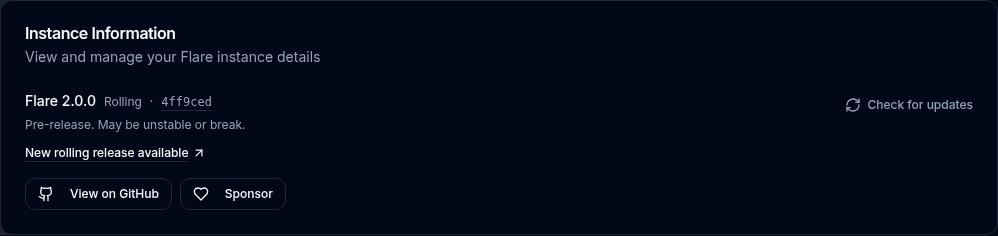
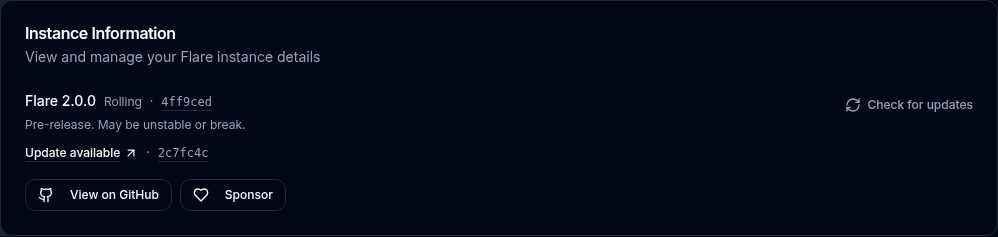
Link the incoming rolling commit in the update notice

diff --git a/__tests__/updates/instance-version.test.ts b/__tests__/updates/instance-version.test.ts
@@ -1,0 +1,117 @@
+import { createElement } from 'react'
+
+import type { BuildInfo, UpdateInfo } from '@/types/dto/updates'
+import { renderToStaticMarkup } from 'react-dom/server'
+import { describe, expect, it, vi } from 'vitest'
+
+import { InstanceVersion } from '@/components/settings/instance-version'
+
+const state = vi.hoisted(() => ({ values: [] as unknown[] }))
+
+// Render the completed update response with React's real server renderer.
+// Only hook state is supplied here; link markup comes from the component.
+vi.mock('react', async (importOriginal) => ({
+  ...(await importOriginal<typeof import('react')>()),
+  useState: () => [state.values.shift(), vi.fn()],
+  useCallback: (callback: unknown) => callback,
+  useEffect: vi.fn(),
+}))
+
+const installedSha = '1111111aaaaaaaaaaaaaaaaaaaaaaaaaaaaaaaaa'
+const latestSha = '2222222bbbbbbbbbbbbbbbbbbbbbbbbbbbbbbbbb'
+const repositoryUrl = 'https://github.com/FlintSH/Flare'
+const installedCommitUrl = `${repositoryUrl}/commit/${installedSha}`
+const latestCommitUrl = `${repositoryUrl}/commit/${latestSha}`
+const rollingReleaseUrl = `${repositoryUrl}/releases/tag/rolling`
+
+const rollingBuild: BuildInfo = {
+  version: '2.0.0',
+  channel: 'rolling',
+  commitSha: installedSha,
+  commitUrl: installedCommitUrl,
+}
+
+const rollingUpdate: UpdateInfo = {
+  currentVersion: '2.0.0',
+  channel: 'rolling',
+  hasUpdate: true,
+  latestVersion: 'rolling',
+  releaseUrl: rollingReleaseUrl,
+  latestCommitSha: latestSha,
+  latestCommitUrl,
+  message: 'A new rolling release is available.',
+}
+
+function render(buildInfo: BuildInfo, updateInfo: UpdateInfo) {
+  state.values = [false, updateInfo, null]
+  const html = renderToStaticMarkup(
+    createElement(InstanceVersion, { buildInfo })
+  )
+  const links = [...html.matchAll(/<a\b([^>]*)>([\s\S]*?)<\/a>/g)].map(
+    ([, attributes, content]) => ({
+      href: attributes.match(/\bhref="([^"]*)"/)?.[1],
+      text: content.replace(/<[^>]*>/g, ''),
+    })
+  )
+  return { html, links }
+}
+
+describe('instance version update links', () => {
+  it('links both the installed and incoming rolling commits separately from the release', () => {
+    const { links } = render(rollingBuild, rollingUpdate)
+
+    expect(links).toEqual([
+      { href: installedCommitUrl, text: installedSha.slice(0, 7) },
+      { href: rollingReleaseUrl, text: 'Update available' },
+      { href: latestCommitUrl, text: latestSha.slice(0, 7) },
+    ])
+  })
+
+  it('shows only the installed commit when the rolling release is current', () => {
+    const { html, links } = render(rollingBuild, {
+      ...rollingUpdate,
+      hasUpdate: false,
+      latestCommitSha: installedSha,
+      latestCommitUrl: installedCommitUrl,
+      message: 'You are running the latest rolling release.',
+    })
+
+    expect(links).toEqual([
+      { href: installedCommitUrl, text: installedSha.slice(0, 7) },
+    ])
+    expect(html).toContain('You are running the latest rolling release.')
+  })
+
+  it('keeps the rolling release link usable when the incoming commit is unavailable', () => {
+    const { links } = render(rollingBuild, {
+      ...rollingUpdate,
+      latestCommitSha: undefined,
+      latestCommitUrl: undefined,
+    })
+
+    expect(links).toEqual([
+      { href: installedCommitUrl, text: installedSha.slice(0, 7) },
+      { href: rollingReleaseUrl, text: 'Update available' },
+    ])
+  })
+
+  it('preserves the stable release version and download link', () => {
+    const releaseUrl = `${repositoryUrl}/releases/tag/v2.1.0`
+    const { html, links } = render(
+      { ...rollingBuild, channel: 'stable' },
+      {
+        currentVersion: '2.0.0',
+        channel: 'stable',
+        hasUpdate: true,
+        latestVersion: '2.1.0',
+        releaseUrl,
+        message: 'A new version is available.',
+      }
+    )
+
+    expect(links).toEqual([
+      { href: releaseUrl, text: 'Update available: 2.1.0' },
+    ])
+    expect(html).not.toContain('Pre-release.')
+  })
+})

diff --git a/components/settings/instance-version.tsx b/components/settings/instance-version.tsx
@@ -102,17 +102,36 @@ export function InstanceVersion({ buildInfo }: { buildInfo: BuildInfo }) {
         ) : error ? (
           error
         ) : updateInfo?.hasUpdate && updateInfo.releaseUrl ? (
-          <a
-            href={updateInfo.releaseUrl}
-            target="_blank"
-            rel="noopener noreferrer"
-            className="inline-flex items-center gap-1 font-medium text-foreground underline decoration-border underline-offset-4 transition-colors hover:decoration-foreground"
-          >
-            {isRolling
-              ? 'New rolling release available'
-              : `Update available: ${updateInfo.latestVersion}`}
-            <ArrowUpRight className="h-3.5 w-3.5" aria-hidden="true" />
-          </a>
+          <div className="flex flex-wrap items-baseline gap-x-2 gap-y-1">
+            <a
+              href={updateInfo.releaseUrl}
+              target="_blank"
+              rel="noopener noreferrer"
+              className="inline-flex items-center gap-1 font-medium text-foreground underline decoration-border underline-offset-4 transition-colors hover:decoration-foreground"
+            >
+              {isRolling
+                ? 'Update available'
+                : `Update available: ${updateInfo.latestVersion}`}
+              <ArrowUpRight className="h-3.5 w-3.5" aria-hidden="true" />
+            </a>
+            {isRolling &&
+              updateInfo.latestCommitSha &&
+              updateInfo.latestCommitUrl && (
+                <span className="inline-flex items-baseline gap-2">
+                  <span aria-hidden="true">·</span>
+                  <a
+                    href={updateInfo.latestCommitUrl}
+                    target="_blank"
+                    rel="noopener noreferrer"
+                    title={`Update to commit ${updateInfo.latestCommitSha}`}
+                    aria-label={`View available update commit ${updateInfo.latestCommitSha}`}
+                    className="font-mono underline decoration-border underline-offset-4 transition-colors hover:text-foreground"
+                  >
+                    {updateInfo.latestCommitSha.slice(0, 7)}
+                  </a>
+                </span>
+              )}
+          </div>
         ) : (
           updateInfo?.message
         )}
